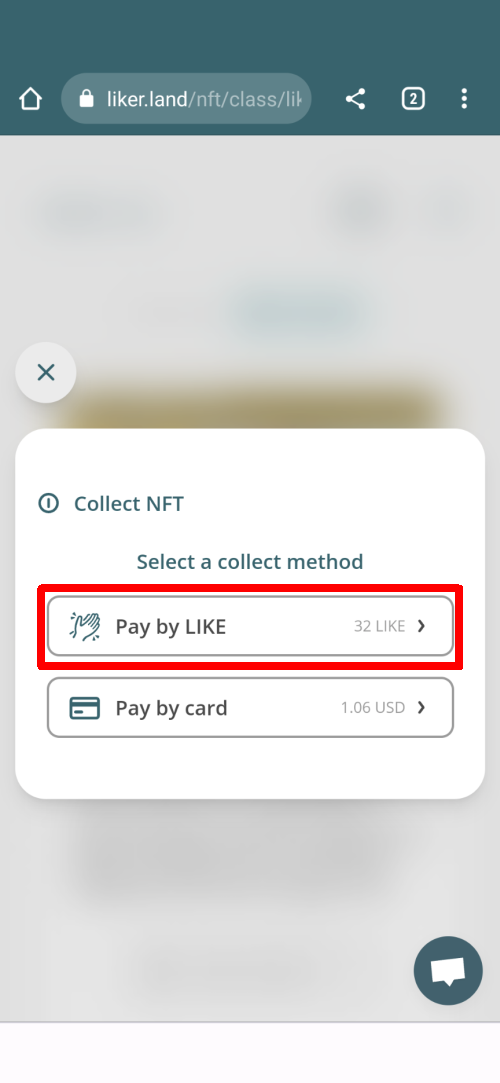
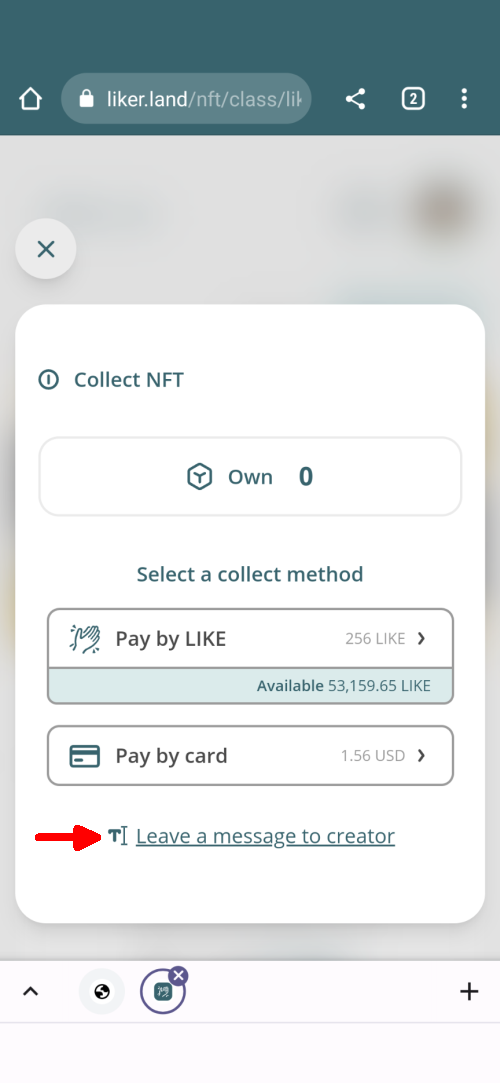
GitBook: [#4336] Collect Writing NFT

diff --git a/general-guides/writing-nft/collect-writing-nft/README.md b/general-guides/writing-nft/collect-writing-nft/README.md
@@ -202,9 +202,13 @@ Enter the message if you want to do so, if not just click "Pay by LIKE". A Walle
 
 <figure><img src="../../../.gitbook/assets/Collect Writing NFT Liker land app 1-en.png" alt=""><figcaption></figcaption></figure>
 
-**Step 2**: Click on the Writing NFT price or "Collection Now" and the Collect NFT page pops up, click "Pay by LIKE".
+**Step 2**: Click on the Writing NFT price or "Collection Now" and the Collect NFT page pops up, click "Leave a message to creator" (optional).
 
 <figure><img src="../../../.gitbook/assets/Collect Writing NFT Liker land app 2-en.png" alt=""><figcaption></figcaption></figure>
+
+Enter the message if you want to do so, if not just click "Pay by LIKE".
+
+<figure><img src="../../../.gitbook/assets/Collect Writing NFT Liker land app 2.1-en.png" alt=""><figcaption></figcaption></figure>
 
 **Step 3**: A pop-up window appears, click Liker ID to login.
 
